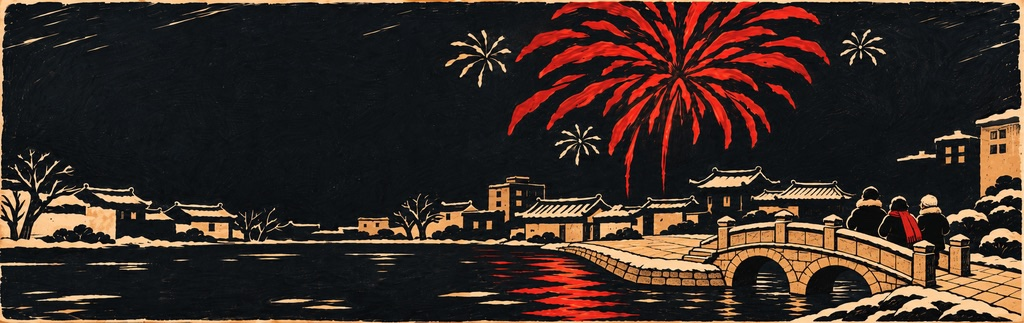
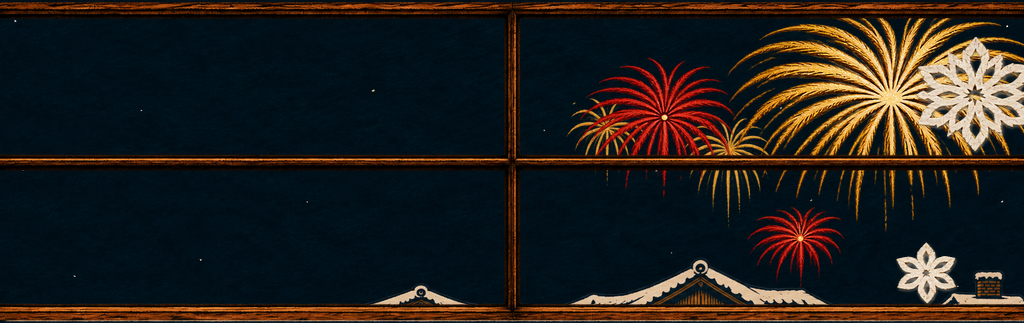
feat(app): 元旦接线换 v2 窗框版图集＋7 星彩蛋
- 图集／海报换 v2 窗框版（atlas 5120×969 第 7 帧中立，poster＝第 7 帧）
- 彩蛋换 7 颗金色四角星 hidden-spark，跟远层（farX = 6*depth，
  即 1×(n−7) px）；v1 小镇版余烬层随重画去掉（v2 烟花全在图集里），
  删 newyear-embers.png 及接线
- 修 pbxproj 错名：彩蛋文件实为 newyear-egg-burst.png，工程却注册
  成不存在的 newyear-egg-star.png，致 Bundle 找不到彩蛋（bitmap 静默
  跳过）；改回实名，彩蛋才能进包

diff --git a/ios/App/App/BearyProfileCoverView.swift b/ios/App/App/BearyProfileCoverView.swift
@@ -52,9 +52,8 @@ public final class ProfileCoverView: UIView {
             names.append("christmas-snowflakes")
             names.append("christmas-egg-globe")
         case .newyear:
-            // 元旦：动态物是金色烟花余烬一张 PNG；彩蛋一张（左上夜空一朵金色
-            // 烟花，中心 (300, 65)），与第 7 帧对齐。
-            names.append("newyear-embers")
+            // 元旦 v2 窗框版：彩蛋一张（7 颗金色四角星的整帧透明层，与第 7 帧
+            // 对齐），跟远层走；v1 小镇版的余烬层已随重画去掉，v2 烟花全在图集里。
             names.append("newyear-egg-burst")
         }
         var images: [String: UIImage] = [:]
@@ -410,38 +409,26 @@ public final class ProfileCoverView: UIView {
                center: CGPoint(x: padded.midX + subjectX, y: padded.midY),
                width: 600 * scaleX, height: 323 * scaleY, angle: 0, alpha: 1)
     }
-    /// 元旦（中式木刻版画、深蓝夜＋金色烟花）：图集只含背景，余烬由动态物层单独贴；
-    /// 彩蛋一张是与第 7 帧对齐的整帧透明层（左上夜空一朵金色烟花，中心 (300, 65)）。
+    /// 元旦 v2（木窗框雪夜、深蓝夜＋金色烟花）：图集 5 列 × 3 行 13 帧，
+    /// 三层视差已 baked 进帧——远层帧移 1(f−6) px（±6）、中层 2(f−6) px
+    /// （±12）、近层 3(f−6) px（±18），窗框在底图里全程静止。
+    /// 彩蛋一张是与第 7 帧对齐的整帧透明层：7 颗金色四角星（(843,49) 在右上
+    /// 大金烟花里，另 6 颗 (150,62)、(320,108)、(430,48)、(600,38)、
+    /// (250,212)、(950,192) 布满天空），跟远层走。
     /// 坐标全按帧坐标（1024×323）算、再乘 padded 的拉伸比换到画布坐标，与 drawBackdrop 同一套映射。
-    /// v26 模型：烟花按远近分三层视差——大红烟花最近，帧移 3(f−6) px（±18）；
-    /// (580,132) 那朵小白烟花居中，帧移 2(f−6) px（±12）；顶部小白烟花群最远，
-    /// 帧移 1(f−6) px（±6）。桥/小镇/行人/河面/倒影全在 far 层静止。
-    /// v22 曾把河面倒影也放进结构层，倒影紧贴桥左拱、动起来像桥在动，
-    /// 且它遮住的 inpaint 是抹平的水面、露出时像一块糊斑，v23 已去掉。
-    /// v24 曾把中央高楼暖色墙面抓进红掩膜抹糊，改迟滞掩膜后已修。
-    /// App 侧动态层跟图集同速：余烬是近层大红烟花的火星（18*depth），
-    /// 彩蛋是远层小金烟花（6*depth）。
-    /// 余烬是烟花的火星，跟烟花同速（structureX），不再用主体速率 24*depth。
+    /// App 侧动态层跟图集同速：彩蛋跟远层，帧移 1(f−6) px 即 6*depth
+    /// （depth ∈ [−1, 1]，f = (depth+1)*6）。
     private func drawNewyear(_ ctx: CGContext, depth: CGFloat, vertical: CGFloat, padded: CGRect) {
         let scaleX = padded.width / 1024
-        let scaleY = padded.height / 323
-        // 各层位移与图集帧内 baked 的一致（帧 f=(depth+1)*6）：近层 3(f−6) px
-        // 即 18*depth，中层 2(f−6) px 即 12*depth，远层 1(f−6) px 即 6*depth。
-        // 余烬是近层大红烟花的火星，跟近层同速；彩蛋是远层小金烟花，跟远层同速。
-        let nearX = 18 * depth * scaleX
-        let farX = 6 * depth * scaleX
-        // 彩蛋：左上夜空一朵金色烟花，倾斜保持 0.45 秒后随 egg 淡入（触发走共享
+        // 彩蛋：7 颗金色四角星，倾斜保持 0.45 秒后随 egg 淡入（触发走共享
         // step 逻辑，与圣诞同款；每次进页 restartVisit 可再触发）。
+        // farX = 6*depth = (f−6)，即远层帧移 1×(n−7) px（n 为 1 起帧号）。
+        let farX = 6 * depth * scaleX
         if egg > 0.001 {
             bitmap("newyear-egg-burst", in: ctx,
                    center: CGPoint(x: padded.midX + farX, y: padded.midY),
                    width: padded.width, height: padded.height, angle: 0, alpha: egg)
         }
-        // 余烬动态物：PNG 左上角对帧坐标 (212, 0)、600×323，中心即帧中心
-        // (512, 161.5)；padded.midY 已含 vertical，不再另加。跟近层大红烟花同速 nearX。
-        bitmap("newyear-embers", in: ctx,
-               center: CGPoint(x: padded.midX + nearX, y: padded.midY),
-               width: 600 * scaleX, height: 323 * scaleY, angle: 0, alpha: 1)
     }
 
     private func drawAdditionalTheme(_ ctx: CGContext, x: CGFloat, y: CGFloat, travel: CGFloat,
